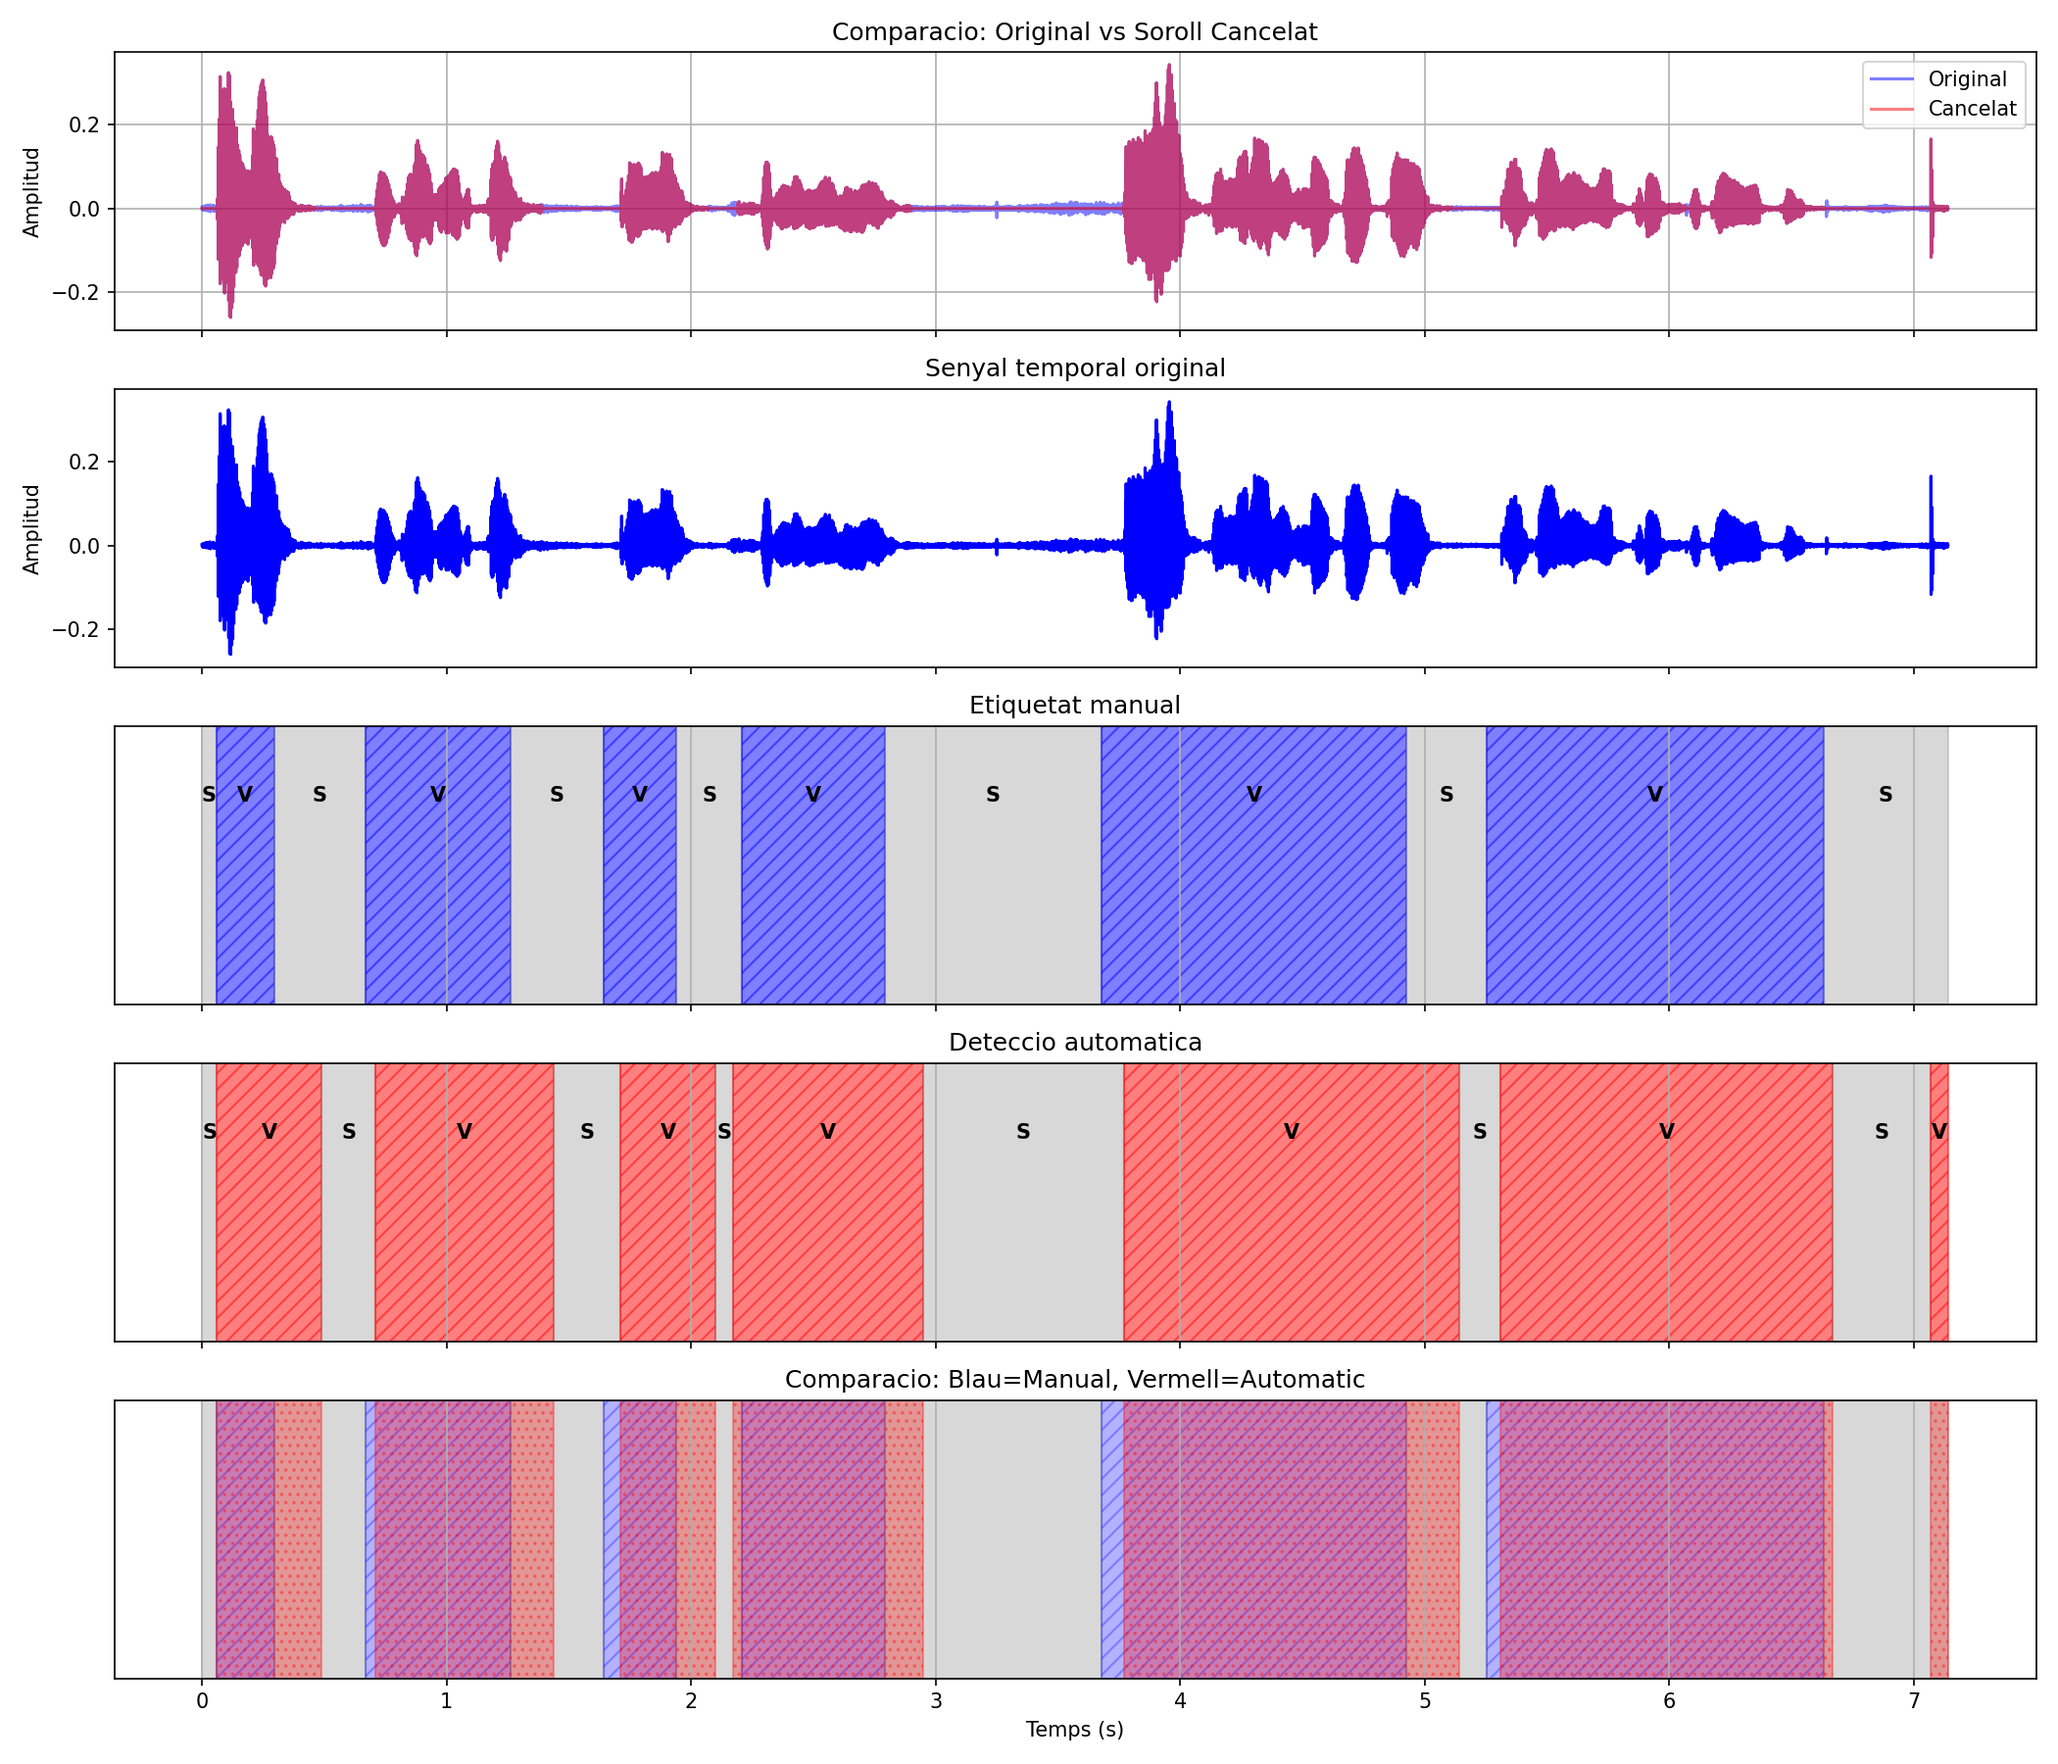
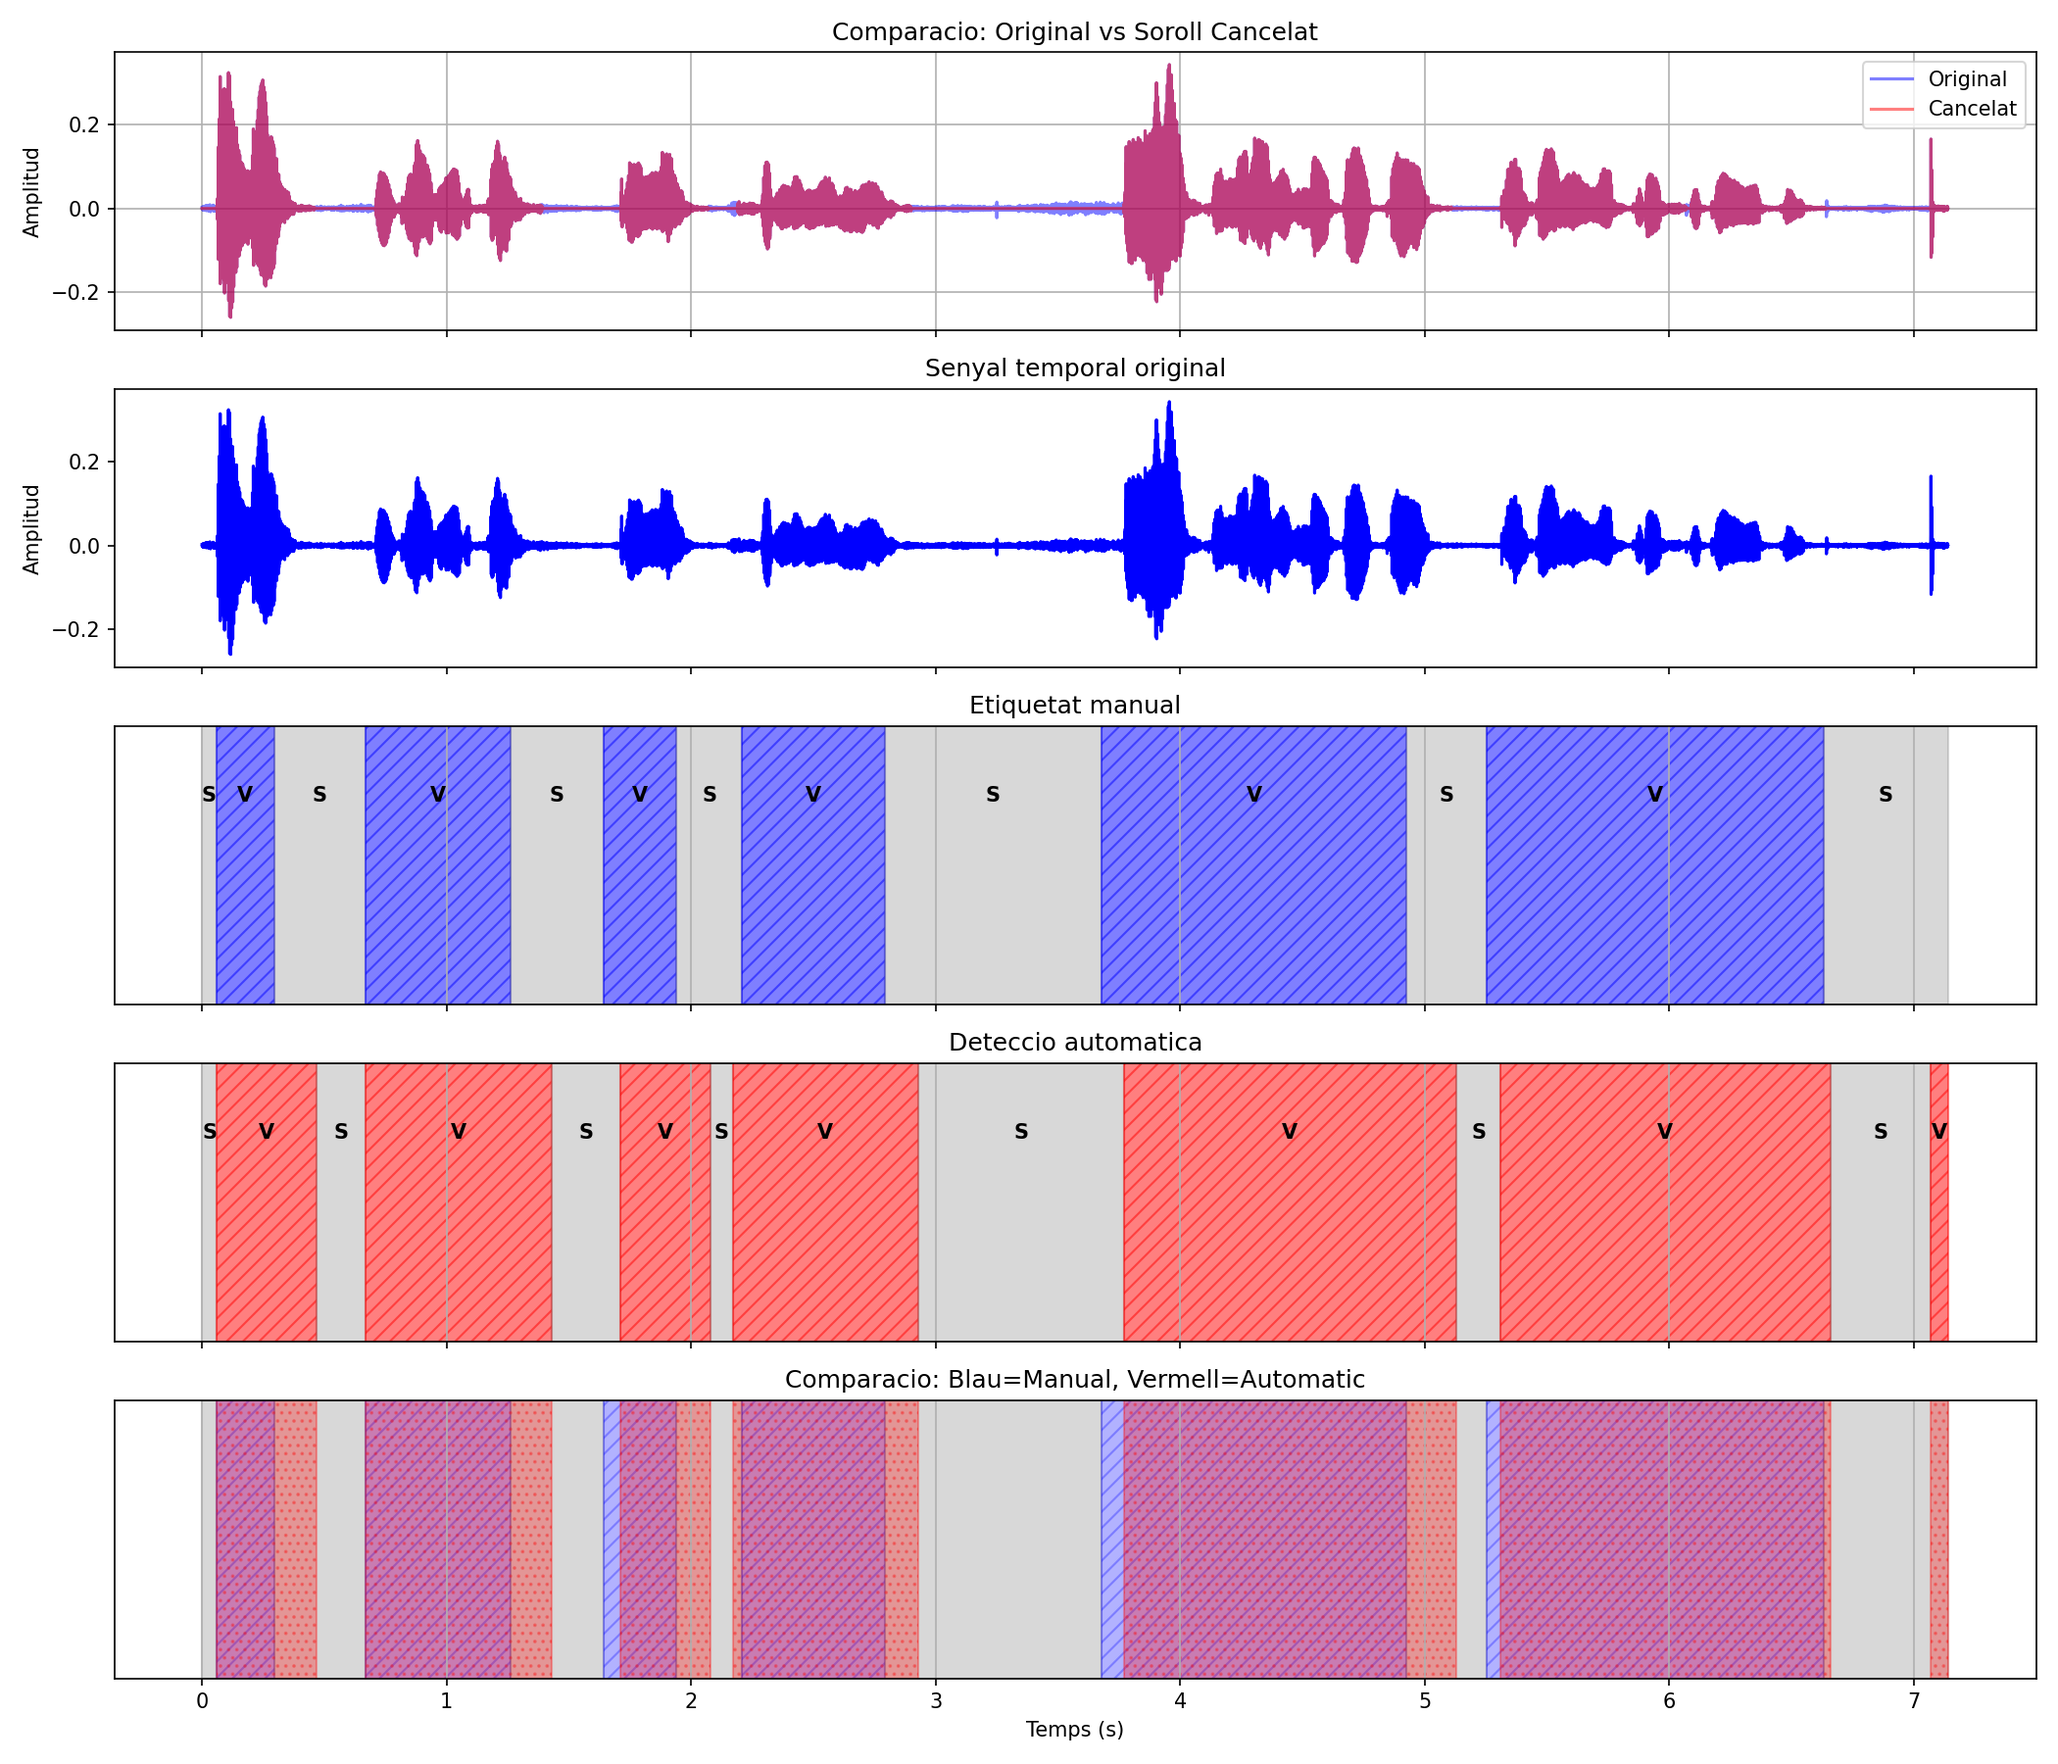
Millora del percentatge amb nous parametres

Changed region(s): [[0.1548, 0.5911, 0.1857, 0.9644], [0.4333, 0.6222, 0.4643, 0.7467], [0.3405, 0.6222, 0.3714, 0.7467]]

diff --git a/src/vad.c b/src/vad.c
@@ -6,13 +6,7 @@
 #include "vad.h"
 #include "pav_analysis.h"
 
-const float FRAME_TIME = 10.0F; /* in ms. */
-
-/*
-* As the output state is only ST_VOICE, ST_SILENCE, or ST_UNDEF,
-* only this labels are needed. You need to add all labels, in case
-* you want to print the internal state in string format
-*/
+const float FRAME_TIME = 10.0F;
 
 const char *state_str[] = {
  "UNDEF", "S", "V", "INIT"
@@ -22,57 +16,32 @@ const char *state2str(VAD_STATE st) {
  return state_str[st];
 }
 
-/* Define a datatype with interesting features */
 typedef struct {
  float zcr;
  float p;
  float am;
 } Features;
 
-/*
-* TODO: Delete and use your own features!
-*/
-
 Features compute_features(const float *x, int N, float fm) {
-  /*
-   * Input: x[i] : i=0 .... N-1 
-   * Ouput: computed features
-   */
-  /* 
-   * DELETE and include a call to your own functions
-   *
-   * For the moment, compute random value between 0 and 1 
-   */
-  Features feat;
-  //feat.zcr = feat.p = feat.am = (float) rand()/RAND_MAX;
-  feat.p = compute_power(x, N);
-  feat.am = compute_am(x, N);
-  feat.zcr = compute_zcr(x, N, fm); // fm és la freqüència de mostreig (16kHz)
-  return feat;
+ Features feat;
+ feat.p = compute_power(x, N);
+ feat.am = compute_am(x, N);
+ feat.zcr = compute_zcr(x, N, fm);
+ return feat;
 }
 
-/*
-* TODO: Init the values of vad_data
-*/
-
 VAD_DATA * vad_open(float rate) {
-  VAD_DATA *vad_data = malloc(sizeof(VAD_DATA));
-  vad_data->state = ST_INIT;
-  vad_data->sampling_rate = rate;
-  vad_data->frametime = 10.0F;
-  vad_data->frame_length = rate * vad_data->frametime * 1e-3;
-  vad_data->counter = 0;
-  // La resta s'assigna des de main_vad.c (docopt)
-  return vad_data;
+ VAD_DATA *vad_data = malloc(sizeof(VAD_DATA));
+ vad_data->state = ST_INIT;
+ vad_data->sampling_rate = rate;
+ vad_data->frametime = 10.0F;
+ vad_data->frame_length = rate * vad_data->frametime * 1e-3;
+ vad_data->counter = 0;
+ return vad_data;
 }
 
 VAD_STATE vad_close(VAD_DATA *vad_data) {
- /*
-  * TODO: decide what to do with the last undecided frames
-  */
  VAD_STATE state = vad_data->state;
-
-
  free(vad_data);
  return state;
 }
@@ -81,18 +50,7 @@ unsigned int vad_frame_size(VAD_DATA *vad_data) {
  return vad_data->frame_length;
 }
 
-/*
-* TODO: Implement the Voice Activity Detection
-* using a Finite State Automata
-*/
-
 VAD_STATE vad(VAD_DATA *vad_data, float *x) {
-
- /*
-  * TODO: You can change this, using your own features,
-  * program finite state automaton, define conditions, etc.
-  */
-
   Features f = compute_features(x, vad_data->frame_length, vad_data->sampling_rate);
   vad_data->last_feature = f.p;
 
@@ -102,28 +60,26 @@ VAD_STATE vad(VAD_DATA *vad_data, float *x) {
   switch (vad_data->state) {
   case ST_INIT:
       vad_data->state = ST_SILENCE;
-      // El silencio inicial sirve para calibrar el umbral
       vad_data->llindar_0 = f.p + vad_data->llindar_0;
       vad_data->counter = 0;    
     break;
 
   case ST_SILENCE:
     if (f.p > umbral_potencia || (f.p > umbral_potencia - 10.0f && f.zcr > umbral_zcr)) {
-      vad_data->state = ST_VOICE; // Entramos directo
-      vad_data->counter = 0;
+        vad_data->state = ST_VOICE;
+        vad_data->counter = 0;
     }
     break;
 
   case ST_VOICE:
     if (f.p < umbral_potencia) {
       vad_data->counter++;
-      // USAMOS MIN_SILENCE (Histéresis): ¿La pausa es lo suficientemente larga para rendirse?
       if (vad_data->counter > (vad_data->min_silence_ms / vad_data->frametime)) {
         vad_data->state = ST_SILENCE;
         vad_data->counter = 0;
       }
     } else {
-      vad_data->counter = 0; // Sigue hablando, reseteamos contador de silencio
+      vad_data->counter = 0;
     }
     break;
 

diff --git a/grafica_canvi.py b/grafica_canvi.py
@@ -1,0 +1,62 @@
+#!/usr/bin/env python3
+import matplotlib
+matplotlib.use('Agg')
+import numpy as np
+import struct
+import matplotlib.pyplot as plt
+
+fs = 16000
+wav_file = 'PAV_2121.wav'
+old_file = 'PAV_2121.vad'
+new_file = 'PAV_2121_auto.vad'
+manual_file = 'PAV_2121.lab'
+
+with open(wav_file, 'rb') as f:
+    f.read(44)
+    data = f.read()
+samples = np.array(struct.unpack('<' + 'h' * (len(data)//2), data), dtype=np.float32)
+
+N = len(samples)
+time = np.arange(N) / fs
+samples = samples[:N] / 32768.0
+
+def read_labels(fname):
+    labels = []
+    with open(fname) as f:
+        for line in f:
+            parts = line.strip().split()
+            if len(parts) >= 3:
+                labels.append((float(parts[0]), float(parts[1]), parts[2]))
+    return labels
+
+manual = read_labels(manual_file)
+old = read_labels(old_file)
+new = read_labels(new_file)
+
+fig, axes = plt.subplots(4, 1, figsize=(14, 10), sharex=True)
+
+axes[0].plot(time, samples, 'b', alpha=0.5)
+axes[0].set_title('Senyal Original')
+axes[0].set_ylabel('Amplitud')
+axes[0].grid(True)
+
+def plot_labels(ax, labels, color, title):
+    for start, end, label in labels:
+        if label == 'S':
+            ax.axvspan(start, end, alpha=0.3, color='gray')
+        else:
+            ax.axvspan(start, end, alpha=0.5, color=color, hatch='///')
+    ax.set_ylim(-0.1, 1.1)
+    ax.set_yticks([])
+    ax.set_title(title)
+    ax.grid(True, axis='x')
+
+plot_labels(axes[1], manual, 'blue', 'Manual')
+plot_labels(axes[2], old, 'red', 'Autentic (alpha0=13.9, zcr=3200, sil=130)')
+plot_labels(axes[3], new, 'green', 'Nou (alpha0=12, zcr=3500, sil=110)')
+
+axes[3].set_xlabel('Temps (s)')
+
+plt.tight_layout()
+plt.savefig('canvi.png', dpi=150)
+print('Grafic guardat: canvi.png')

diff --git a/src/vad_docopt.h b/src/vad_docopt.h
@@ -41,11 +41,11 @@ const char help_message[] =
 "   -i FILE --input-wav FILE         WAVE file for voice activity detection\n"
 "   -o FILE --output-vad FILE        Label file with the result of VAD\n"
 "   -w FILE --output-wav FILE       WAVE file with silences cleared\n"
-"   -0 FLOAT --alpha0 FLOAT         Increment per calcular llindar0 (dB) [default: 13.9]\n"
-"   -z FLOAT --zcr FLOAT            Llindar ZCR [default: 3200]\n"
+"   -0 FLOAT --alpha0 FLOAT         Increment per calcular llindar0 (dB) [default: 12]\n"
+"   -z FLOAT --zcr FLOAT            Llindar ZCR [default: 3500]\n"
 "   -f INT --frametime INT          Temps de Trames    [default: 10]\n"
 "   -m FLOAT --min-speech FLOAT    Durada minima veu (ms) [default: 50]\n"
-"   -s FLOAT --min-silence FLOAT   Durada minima silenci (ms) [default: 130]\n"
+"   -s FLOAT --min-silence FLOAT   Durada minima silenci (ms) [default: 110]\n"
 "   -v --verbose                  Show debug information\n"
 "   -h --help                   Show this screen\n"
 "   --version                    Show the version of the project\n"
@@ -324,8 +324,8 @@ int elems_to_args(Elements *elements, DocoptArgs *args, bool help,
 
 DocoptArgs docopt(int argc, char *argv[], bool help, const char *version) {
     DocoptArgs args = {
-        0, 0, 0, (char*) "13.9", (char*) "10", NULL, (char*) "130", (char*)
-        "50", NULL, NULL, (char*) "3200",
+        0, 0, 0, (char*) "12", (char*) "10", NULL, (char*) "110", (char*) "50",
+        NULL, NULL, (char*) "3500",
         usage_pattern, help_message
     };
     Tokens ts;
@@ -355,3 +355,4 @@ DocoptArgs docopt(int argc, char *argv[], bool help, const char *version) {
         exit(EXIT_SUCCESS);
     return args;
 }
+

diff --git a/README.md b/README.md
@@ -189,12 +189,12 @@ Ejercicios
     Lógica de Histéresis (Hangover): gracias a la histéresis, el detector automático puede mantener la etiqueta "VOZ" un poco más de tiempo después de que la señal baje un poco. Esto es muy útil porque evita cortar el final de las frases.  Utilizando el campo vad_data->counter, el sistema puede "acordarse" de que estaba en un estado de voz, por lo tanto, no cambia al estado de silencio inmediatamente. Este contador cubre unos 100-150 ms de seguridad, lo que suaviza las transiciones y da mucha más continuidad a las frases.
 
 
-    Optimización de parámetros: Para mirar el umbral indicado hemos hecho un barrido paramétrico, y hemos podido observar como con el umbral alpha = 13.9 el sistema alcanza su punto óptimo de compromiso entre Recall y Precision.
+Optimización de parámetros: Para mirar el umbral indicado hemos hecho un barrido paramétrico, y hemos podido observar como con el umbral alpha = 12 el sistema alcanza su punto óptimo de compromiso entre Recall y Precision.
 
 - Inserte una gráfica en la que se vea con claridad la señal temporal, el etiquetado manual y la detección
-  automática conseguida para el fichero grabado al efecto. 
+  automática conseguida para el fibrinio grabado al efecto. 
 
-  Lo hemos hecho con un umbral de alpha de 13.9, silenci de 130ms y zcr detasa de cruces por zero de z=3200
+  Lo hemos hecho con un umbral de alpha de 12, silenci de 110ms y zcr detasa de cruces por zero de z=3500
 
   ![Imatge de Comparació](img/labels_comparativa.png)
 
@@ -230,13 +230,12 @@ Ejercicios
   continuación las tasas de sensibilidad (*recall*) y precisión para el conjunto de la base de datos (sólo
   el resumen).
 
-  Tras aplicar estas mejoras y usar el umbral optimizado de 13.9, los resultados obtenidos con el script de evaluación son:
-
+  Tras aplicar estas mejoras y usar el umbral optimizado de 12, los resultados obtenidos con el script de evaluación son:
+ 
   **************** Summary ****************
-
-    Recall V: 97.43%    Precision V: 87.97%    F-score V (2)  : 95.38%
-    Recall S: 79.08%    Precision S: 95.14%    F-score S (1/2): 91.43%
-    ===> TOTAL: 93.379%
+    Recall V:575.79/590.75 97.47%   Precision V:575.79/647.51 88.92%   F-score V (2)  : 95.63%
+    Recall S:304.54/376.26 80.94%   Precision S:304.54/319.50 95.32%   F-score S (1/2): 92.05%
+    ===> TOTAL: 93.822%
 
 
 ### Trabajos de ampliación
@@ -277,15 +276,15 @@ Ejercicios
 
   Al finalizar toda la práctica y la parte de ampliación hemos modificado los parámetros de alfa, zcr y el min_silence_ms (representa el tiempo que el VAD "se queda esperando" antes de confirmar que la voz se ha terminado) para poder obtener el porcentaje más óptimo global cuando miramos el Precision y el Recall de voz y sonido. Finalmente, estos parámetros los hemos puesto como parámetros predeterminados, lo que nos permite conseguir una mejor cancelación del sonido.
 
-  Estos valores consisten en alpha = 13.9, zcr = 3200 y min_silence_ms = 130. El resultado sería el siguiente:
+  Estos valores consisten en alpha = 12, zcr = 3500 y min_silence_ms = 110. El resultado sería el siguiente:
 
 
-**************** Summary ****************
-Recall V:572.91/590.75 96.98%   Precision V:572.91/638.69 89.70%   F-score V (2)  : 95.43%
-Recall S:310.48/376.26 82.52%   Precision S:310.48/328.32 94.57%   F-score S (1/2): 91.88%
-===> TOTAL: 93.640%
+  *************** Summary ****************
+  Recall V:572.91/590.75 96.98%   Precision V:572.91/638.69 89.70%   F-score V (2)  : 95.43%
+  Recall S:310.48/376.26 82.52%   Precision S:310.48/328.32 94.57%   F-score S (1/2): 91.88%
+  ===> TOTAL: 93.822%
 
-Para obtener el ciclo de histéresi (el número de tramas que nos tenemos que esperar) lo hacemos a través del min_silence_ms, dividiendo este valor entre la duración de la trama (FRAME_TIME).
+  Para obtener el ciclo de histéresi (el número de tramas que nos tenemos que esperar) lo hacemos a través del min_silence_ms, dividiendo este valor entre la duración de la trama (frametime).
 
 
 
